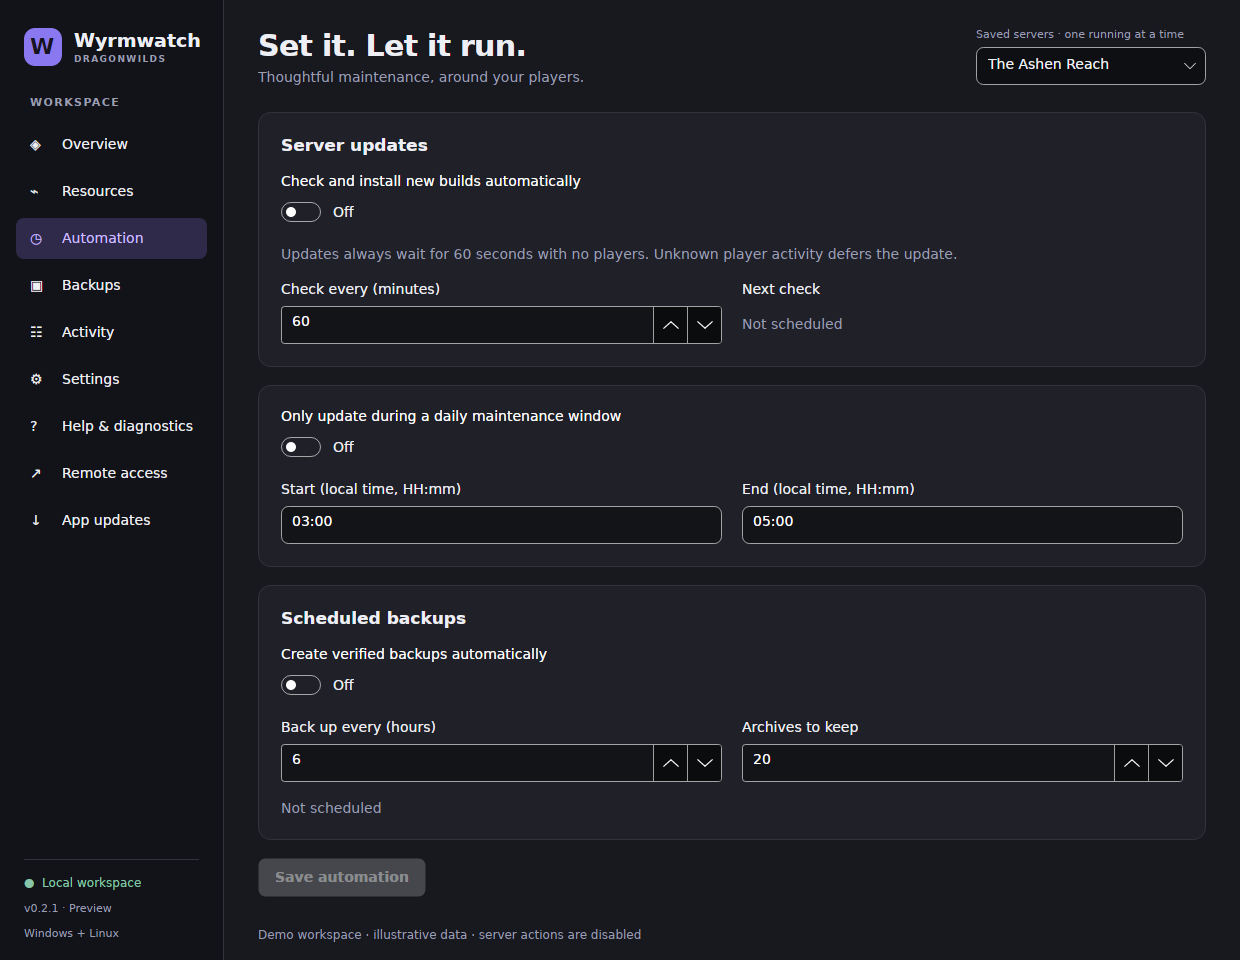
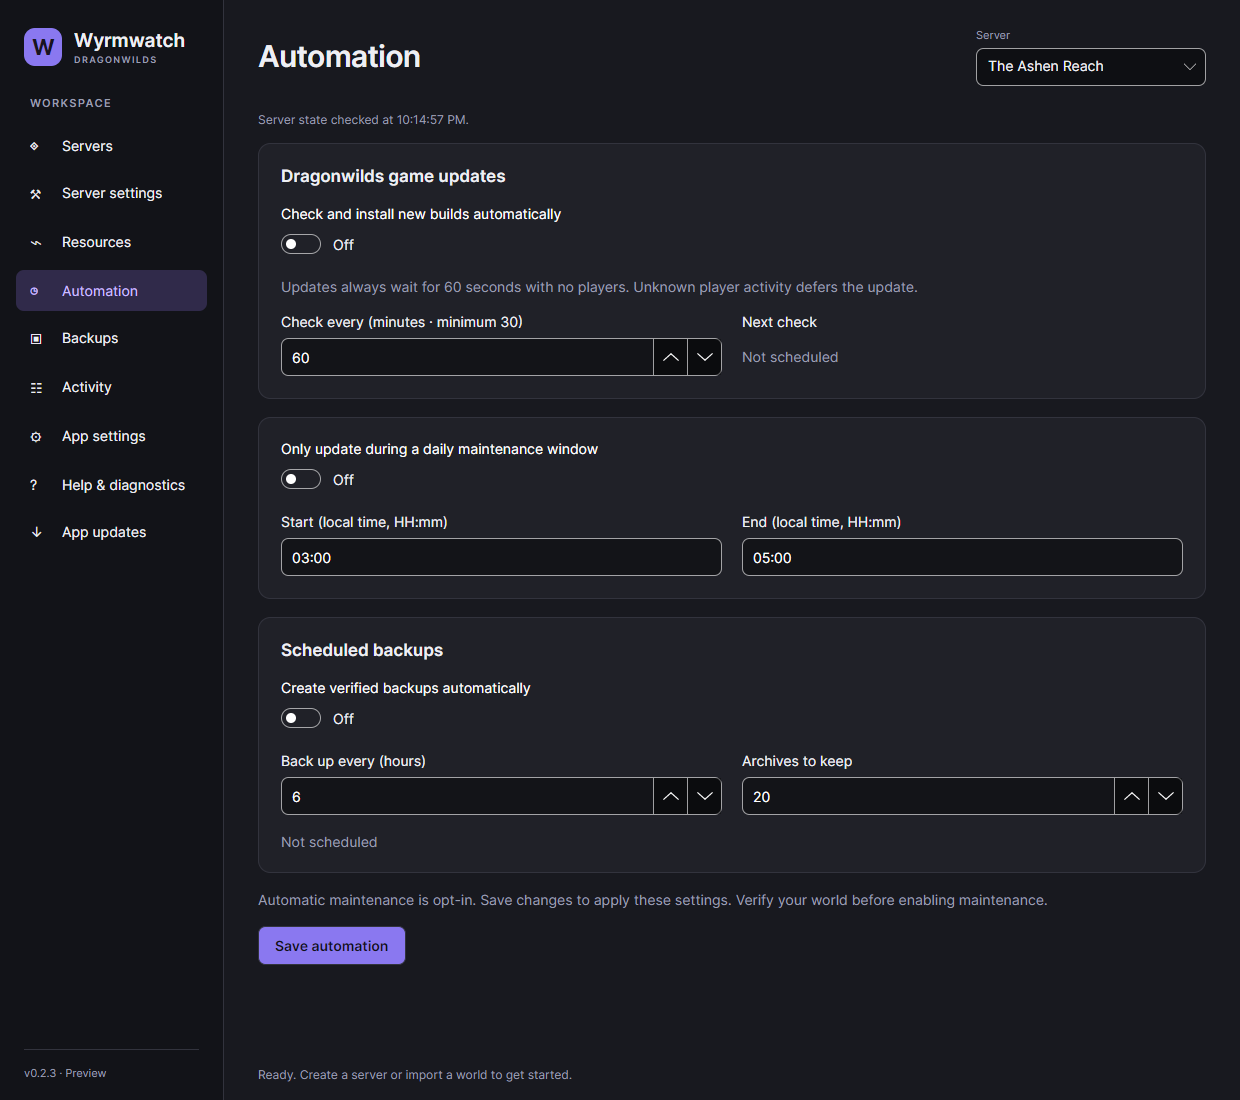
Remove informational footer labels and refresh native README captures

diff --git a/docs/images/README.md b/docs/images/README.md
@@ -1,12 +1,12 @@
 # README screenshots
 
-These PNGs are direct window captures of Wyrmwatch 0.2.1 on Ubuntu 24.04, using its built-in `--demo` mode in a separate workspace. They contain illustrative data, with server actions disabled. No real server, credentials, or personal workspace is shown.
+These PNGs are direct native Windows client-area captures of Wyrmwatch 0.2.3 after removing the informational sidebar footer labels. They show the real desktop app and its local background manager in unique temporary workspaces, with two explicitly configured, stopped server fixtures. The launchers are non-executable placeholder files; no game engine was started. Automatic updates, scheduled backups, launch at login and background operation are off. No real worlds, credentials or personal manager workspace are shown. Visible temporary installation paths belong only to these fixtures.
 
-- `overview-dark.png`: overview in the dark theme.
-- `resources.png`: CPU and memory history after allowing demo samples to accumulate.
-- `automation.png`: update checks, maintenance window, backup frequency, and retention. Automatic updates and scheduled backups are off by default.
-- `overview-light.png`: overview in the light theme.
+- [servers-dark.png](servers-dark.png): Servers workspace in the dark theme.
+- [servers-light.png](servers-light.png): the same stopped-server layout in the light theme.
+- [resources.png](resources.png): the stopped server's resource guidance, with no invented samples.
+- [automation.png](automation.png): game updates, maintenance window, backup frequency and retention, all disabled by default.
 
-To refresh them, run the packaged desktop app with `--demo --data-dir <new-temporary-directory>`, navigate through these pages, and capture the app window. Use 1240 × 850 for the overview and resource views, and 1240 × 960 for automation so the complete form fits. Move the pointer outside the app before capture, and keep the demo label visible. Use Settings to change the theme without saving desktop preferences.
+To refresh them, prepare only disposable profiles under a new temporary root, with separate installation/save and backup folders. Set the fixture workspace's theme, disable close-to-tray and all automatic actions, then run the packaged app with `--data-dir <fixture-workspace>`. Never point it at an existing installation or click Start, Create, Import or Restore. Capture the owned app window after its profiles have been observed as stopped; navigate only to Resources and Automation. Use a 1240 x 960 client area for Servers and Resources, and 1240 x 1100 for Automation so its Save control also fits. Capture dark/light from separate fixture preferences and close each app normally afterward.
 
-Capture the actual interface without altering its content. Review every image for legibility, clipped controls, secrets, and private paths before committing. Update the version caption in the root README when refreshing the images.
+The current captures use native `PrintWindow` on the verified app window, without editing pixels or substituting data in the renderer. Review every image for legibility, clipped controls, secrets and unrelated private paths before committing. Update the version and provenance caption in the root README when refreshing the images. These screenshots do not establish real-game compatibility, screen-reader coverage or every DPI setting.

diff --git a/README.md b/README.md
@@ -12,7 +12,7 @@ An unofficial community tool, not affiliated with Jagex. Licensed [AGPL-3.0-only
 
 ![Servers workspace with two disposable servers and controls for the selected server](docs/images/servers-dark.png)
 
-*Avalonia-rendered screenshots from the 0.2.2 end-to-end test workspace. These are dummy servers; no live game data is shown.*
+*Native Windows screenshots of Wyrmwatch 0.2.3 with two stopped, disposable server fixtures. No live game data is shown; automatic maintenance is off.*
 
 <details>
 <summary><strong>Light theme</strong></summary>
